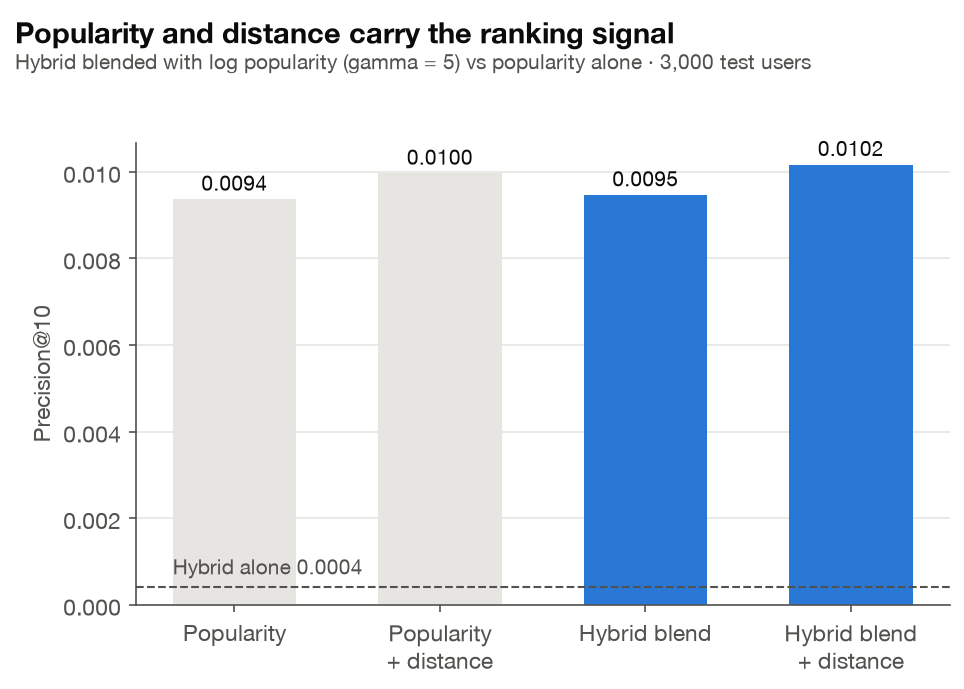
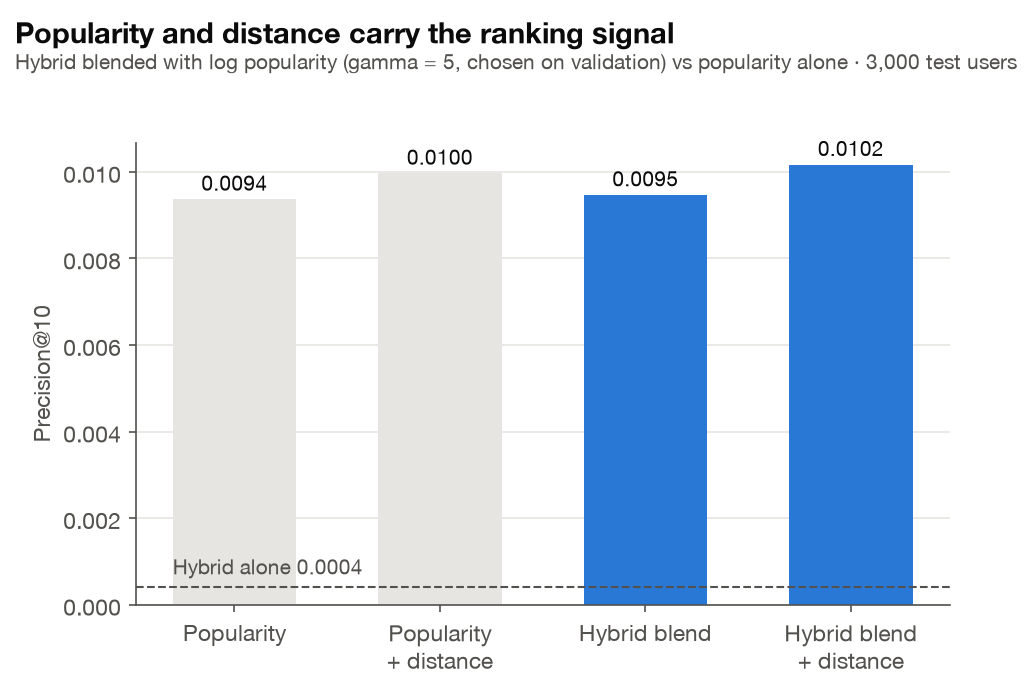
fix(figures): D1 그림이 검증에서 고른 gamma를 읽도록 수정
blend(5)를 고정으로 조회해, 검증 선택값이 바뀌면 KeyError가 났다.
popularity.json의 validation 결과에서 같은 규칙으로 gamma를 읽는다
(test로 다시 고르지 않음, CodeRabbit 리뷰).

Related to #11

diff --git a/experiments/figures.py b/experiments/figures.py
@@ -226,8 +226,11 @@ def t3_gap():
 
 
 def d1_popularity():
-    d = load("popularity")["test"]
-    keys = ["popularity(-)", "popularity(-) + distance", "blend(5)", "blend(5) + distance"]
+    pop = load("popularity")
+    d = pop["test"]
+    # gamma chosen on validation by experiments/popularity.py (same rule), never re-picked on test
+    gamma = max((v for v in pop["val"] if v["method"] == "blend"), key=lambda v: v["NDCG@10"])["param"]
+    keys = ["popularity(-)", "popularity(-) + distance", f"blend({gamma})", f"blend({gamma}) + distance"]
     labels = ["Popularity", "Popularity\n+ distance", "Hybrid blend", "Hybrid blend\n+ distance"]
     vals = [d[k]["P@10"] for k in keys]
     fig, ax = plt.subplots(figsize=(7, 4))
@@ -239,7 +242,8 @@ def d1_popularity():
     ax.text(-0.3, raw + 0.0003, f"Hybrid alone {raw:.4f}", ha="left", color=INK2, fontsize=10)
     ax.set_ylabel("Precision@10")
     titled(fig, "Popularity and distance carry the ranking signal",
-           "Hybrid blended with log popularity (gamma = 5) vs popularity alone · 3,000 test users")
+           f"Hybrid blended with log popularity (gamma = {gamma}, chosen on validation) vs popularity alone "
+           "· 3,000 test users")
     save(fig, "D1_popularity_blend")
 
 
